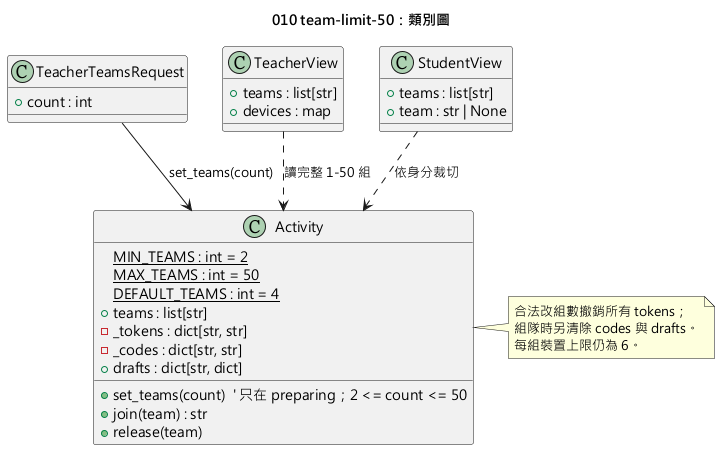
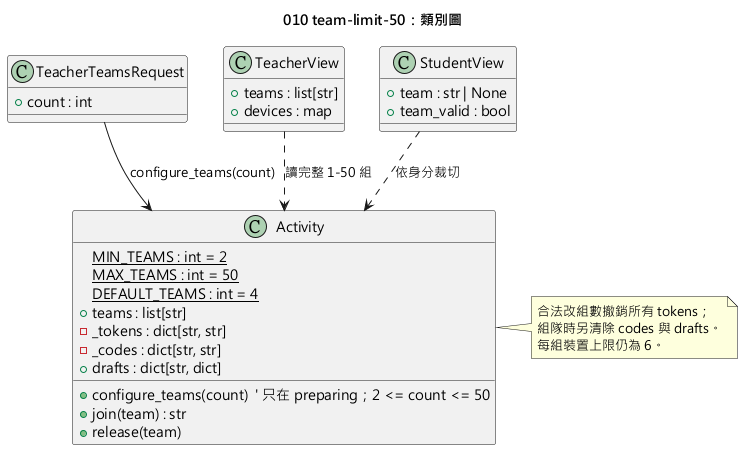
docs(diagrams): [CORE] 訂正五十組圖碼一致性

diff --git a/probes/team_limit_50_capacity_probe.py b/probes/team_limit_50_capacity_probe.py
@@ -19,8 +19,8 @@ TEACHER_KEY = "probe-teacher-key-" + "0" * 16
 
 async def main() -> None:
     activity = Activity()
-    # 現行產品上限仍為 12；探針只繞過 configure_teams 的範圍檢查，
-    # 其餘 join、token 反查、view 裁切、changed 通知與真 WebSocket 路徑皆走產品碼。
+    # 直接建立 50 組以隔離量測廣播容量；join、token 反查、view 裁切、changed 通知與
+    # 真 WebSocket 路徑皆走產品碼，組數範圍另由 API 與 Activity 邊界測試驗證。
     activity.teams = team_names(50)
     await activity.set_team_play(True)
 

diff --git a/specs/010-team-limit-50/verification.md b/specs/010-team-limit-50/verification.md
@@ -144,10 +144,10 @@ Tests       36 passed (36)
 | 圖表 | 圖中約束 | 程式錨點與結論 |
 |---|---|---|
 | component | Teacher、Home、Results 經 API 與 server 活動模型協作 | `web/src/pages/Teacher.tsx:142`「team-list」、`web/src/pages/Home.tsx:5`「TeamPicker」、`web/src/pages/Results.tsx:58`「table-wrap」、`server/quiz_server/app.py:188`「/api/teacher/teams」均存在，組件及依賴方向一致。 |
-| class | `MIN_TEAMS=2`、`MAX_TEAMS=50`；設定組數委派 Activity；改組數撤銷狀態 | `server/quiz_server/activity.py:20`「MIN_TEAMS, MAX_TEAMS, DEFAULT_TEAMS = 2, 50, 4」、`server/quiz_server/activity.py:231`「configure_teams」、`server/quiz_server/app.py:39`「TeamsBody」一致；每組裝置上限既有邏輯未改。 |
+| class | `MIN_TEAMS=2`、`MAX_TEAMS=50`；設定組數委派 `Activity.configure_teams`；學生畫面只帶自身 `team` 與 `team_valid`；改組數撤銷狀態 | `server/quiz_server/activity.py:20`「MIN_TEAMS, MAX_TEAMS, DEFAULT_TEAMS = 2, 50, 4」、`server/quiz_server/activity.py:231`「configure_teams」、`server/quiz_server/views.py:73`「student_view」、`server/quiz_server/app.py:39`「TeamsBody」一致；每組裝置上限既有邏輯未改。 |
 | sequence | 準備階段設定 50、建立第 1–50 組、加入第 50 組；51 拒絕且狀態不變 | `server/quiz_server/activity.py:103`「team_names」、`server/quiz_server/activity.py:184`「join」、`server/quiz_server/activity.py:232`「MIN_TEAMS <= count <= MAX_TEAMS」及 API 測試的狀態不變斷言一致。 |
 
-結論：三張圖的元件、類別約束與訊息順序均與實作一致，未發現需回改圖或程式的偏離。
+架構末輪首驗發現類別圖與時序圖曾把 Activity 方法誤寫成 `set_teams`，且類別圖多畫學生端完整組別清單；已訂正為 `configure_teams`，並把學生畫面限縮為自身 `team` 與 `team_valid`。結論：訂正後三張圖的元件、類別約束與訊息順序均與實作一致。
 
 ## 人工瀏覽器驗證
 
